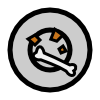
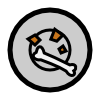
.

Changed region(s): [[0.33, 0.27, 0.75, 0.63], [0.27, 0.42, 0.63, 0.75]]

diff --git a/web/resources.dart b/web/resources.dart
@@ -10,7 +10,8 @@ class Resources {
   static ImageElement imgBedHead;
   static ImageElement imgBedFeet;
   static ImageElement imgDeskLeft;
-  static ImageElement imgDeskRight;
+  static ImageElement imgDeskRightBefore;
+  static ImageElement imgDeskRightAfter;
   static ImageElement imgCupboardLeft;
   static ImageElement imgCupboardRight;
   static ImageElement imgDishBefore;
@@ -27,6 +28,8 @@ class Resources {
   static ImageElement imgWallEdge2;
   static ImageElement imgWallEdge3;
   static ImageElement imgWallEdge4;
+  static ImageElement imgWallToToiletLeft;
+  static ImageElement imgWallToToiletRight;
   static ImageElement imgToilet;
   static ImageElement imgSocket;
   static ImageElement imgPhone;
@@ -41,7 +44,8 @@ class Resources {
     imgBedHead = new ImageElement(src: 'res/bedHead.png');
     imgBedFeet = new ImageElement(src: 'res/bedFeet.png');
     imgDeskLeft = new ImageElement(src: 'res/deskLeft.png');
-    imgDeskRight = new ImageElement(src: 'res/deskRight.png');
+    imgDeskRightBefore = new ImageElement(src: 'res/deskRightBefore.png');
+    imgDeskRightAfter = new ImageElement(src: 'res/deskRightAfter.png');
     imgCupboardLeft = new ImageElement(src: 'res/cupboardLeft.png');
     imgCupboardRight = new ImageElement(src: 'res/cupboardRight.png');
     imgDishBefore = new ImageElement(src: 'res/dishBefore.png');
@@ -58,6 +62,8 @@ class Resources {
     imgWallEdge2 = new ImageElement(src: 'res/wallEdge2.png');
     imgWallEdge3 = new ImageElement(src: 'res/wallEdge3.png');
     imgWallEdge4 = new ImageElement(src: 'res/wallEdge4.png');
+    imgWallToToiletLeft = new ImageElement(src: 'res/wallToToiletLeft.png');
+    imgWallToToiletRight = new ImageElement(src: 'res/wallToToiletRight.png');
     imgToilet = new ImageElement(src: 'res/toilet.png');
     imgSocket = new ImageElement(src: 'res/socket.png');
     imgPhone = new ImageElement(src: 'res/phone.png');

diff --git a/web/room.dart b/web/room.dart
@@ -24,8 +24,8 @@ class Room {
     tiles[3][0] = new TileWall(3, 0, 2);
     tiles[4][0] = new TileWall(4, 0, 2);
     tiles[5][0] = new TileWall(5, 0, 2);
-    tiles[6][1] = new TileWall(6, 1, 3);
-    tiles[6][3] = new TileWall(6, 3, 3);
+    tiles[6][1] = new TileWall(6, 1, 9);
+    tiles[6][3] = new TileWall(6, 3, 10);
     tiles[2][4] = new TileWall(2, 4, 4);
     tiles[3][4] = new TileWall(3, 4, 4);
     tiles[4][4] = new TileWall(4, 4, 4);
@@ -42,16 +42,16 @@ class Room {
     tiles[4][1] = new TileCupboard(4, 1, cupboard, 1);
     tiles[4][2] = new TileCupboard(4, 2, cupboard, 2);
     tiles[5][1] = new TileDish(5, 1);
-    //tiles[5][2] = new TileWeed(5, 2);
+    tiles[5][2] = new TileWeed(5, 2);
     tiles[6][2] = new TileToilet(6, 2);
     tiles[0][3] = new TileSocket(0, 3);
     tiles[1][3] = new TileChair(1, 3);
     TileGroup desk = new TileGroup();
     tiles[2][3] = new TileDesk(2, 3, desk, 1);
     tiles[3][3] = new TileDesk(3, 3, desk, 2);
+    tiles[4][3] = new TileArmchair(4, 3);
     tiles[5][3] = new TileBookshelve(5, 3);
     tiles[1][4] = new TilePhone(1, 4);
-    tiles[5][2] = new TileWeed(5, 2);
     tiles[2][1] = new TilePlant(2,1);
     highlightX = 0;
     highlightY = 0;

diff --git a/web/tile.dart b/web/tile.dart
@@ -166,8 +166,9 @@ class TileDesk extends Tile {
     if (part == 1) {
       image = Resources.imgDeskLeft;
     } else if (part == 2) {
-      image = Resources.imgDeskRight;
+      image = Resources.imgDeskRightBefore;
     }
+    homeworkDone = false;
   }
 
   bool canMoveTo(int targetX, int targetY) {
@@ -182,6 +183,9 @@ class TileDesk extends Tile {
   }
 
   void drawOnTop() {
+    if (part == 2 && homeworkDone) {
+      bufferContext.drawImage(Resources.imgDeskRightAfter, positionX * Tile.WIDTH, positionY * Tile.HEIGHT);
+    }
     if (dishMode == 1) {
       bufferContext.drawImage(Resources.imgDishBefore, positionX * Tile.WIDTH, positionY * Tile.HEIGHT);
     } else if (dishMode == 2) {
@@ -330,6 +334,12 @@ class TileWall extends Tile {
         break;
       case 8:
         image = Resources.imgWallEdge4;
+        break;
+      case 9:
+        image = Resources.imgWallToToiletLeft;
+        break;
+      case 10:
+        image = Resources.imgWallToToiletRight;
         break;
     }
   }
